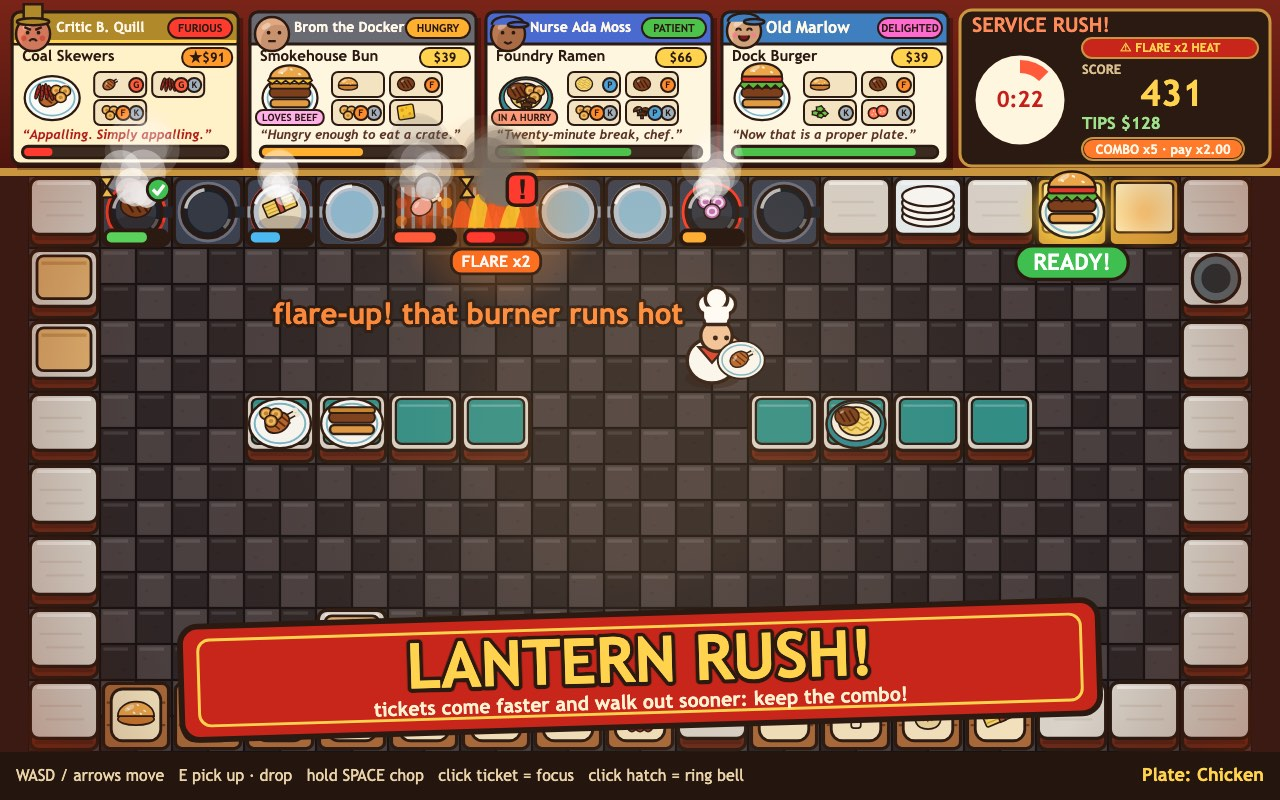
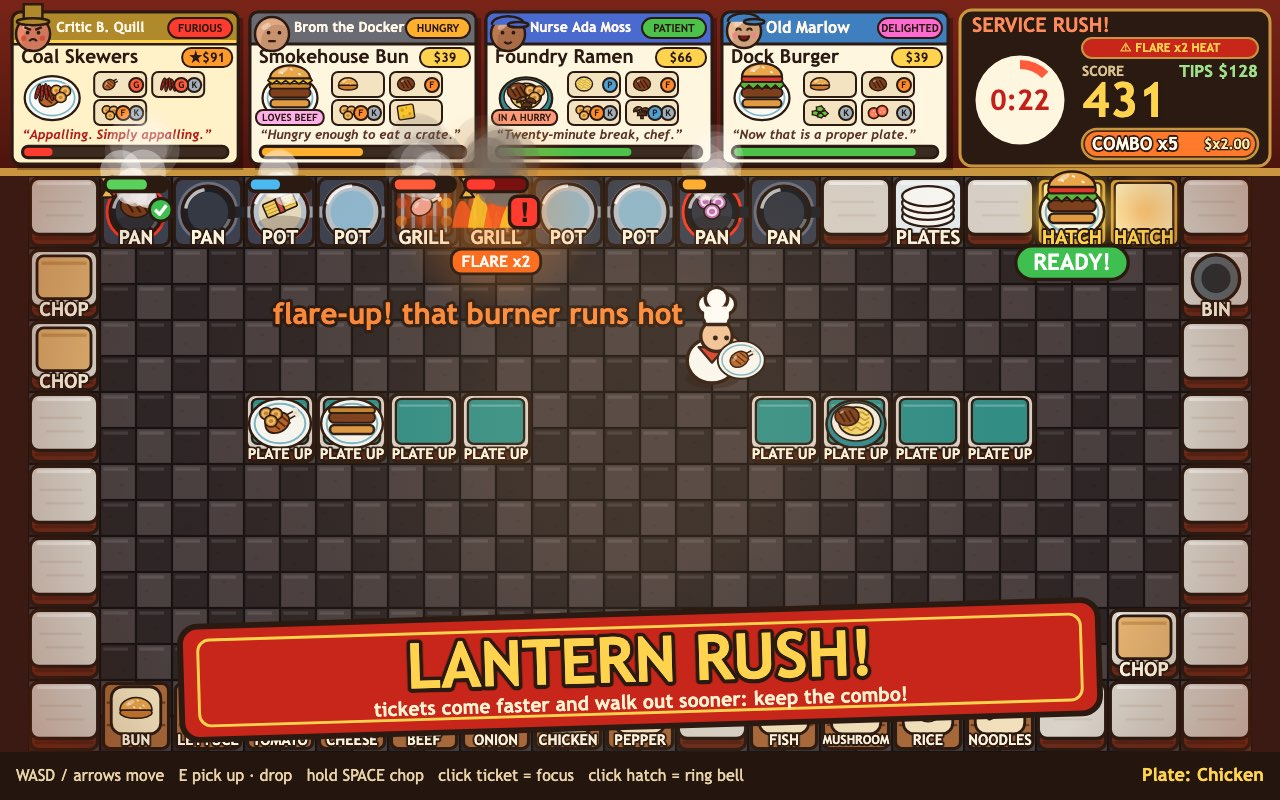
feat: v4 screenshots with station and crate labels, big HUD numbers; station nameplates at 17px

diff --git a/game/src/draw-kitchen.js b/game/src/draw-kitchen.js
@@ -156,7 +156,7 @@ function tileText(ctx, str, x, y, size, color = '#fff6df') {
 // The station's name is a nameplate on the counter's front face, under the food; bars ride above the food.
 function drawStationLabel(ctx, tile) {
   const name = STATION_LABEL[tile.type];
-  if (name) tileText(ctx, name, tile.x, tile.y + H / 2 - 8, 15, tile.type === 'hatch' ? '#ffd34d' : '#fff6df');
+  if (name) tileText(ctx, name, tile.x, tile.y + H / 2 - 8, 17, tile.type === 'hatch' ? '#ffd34d' : '#fff6df');
 }
 
 function drawCrate(ctx, tile, x, y, glow) {
